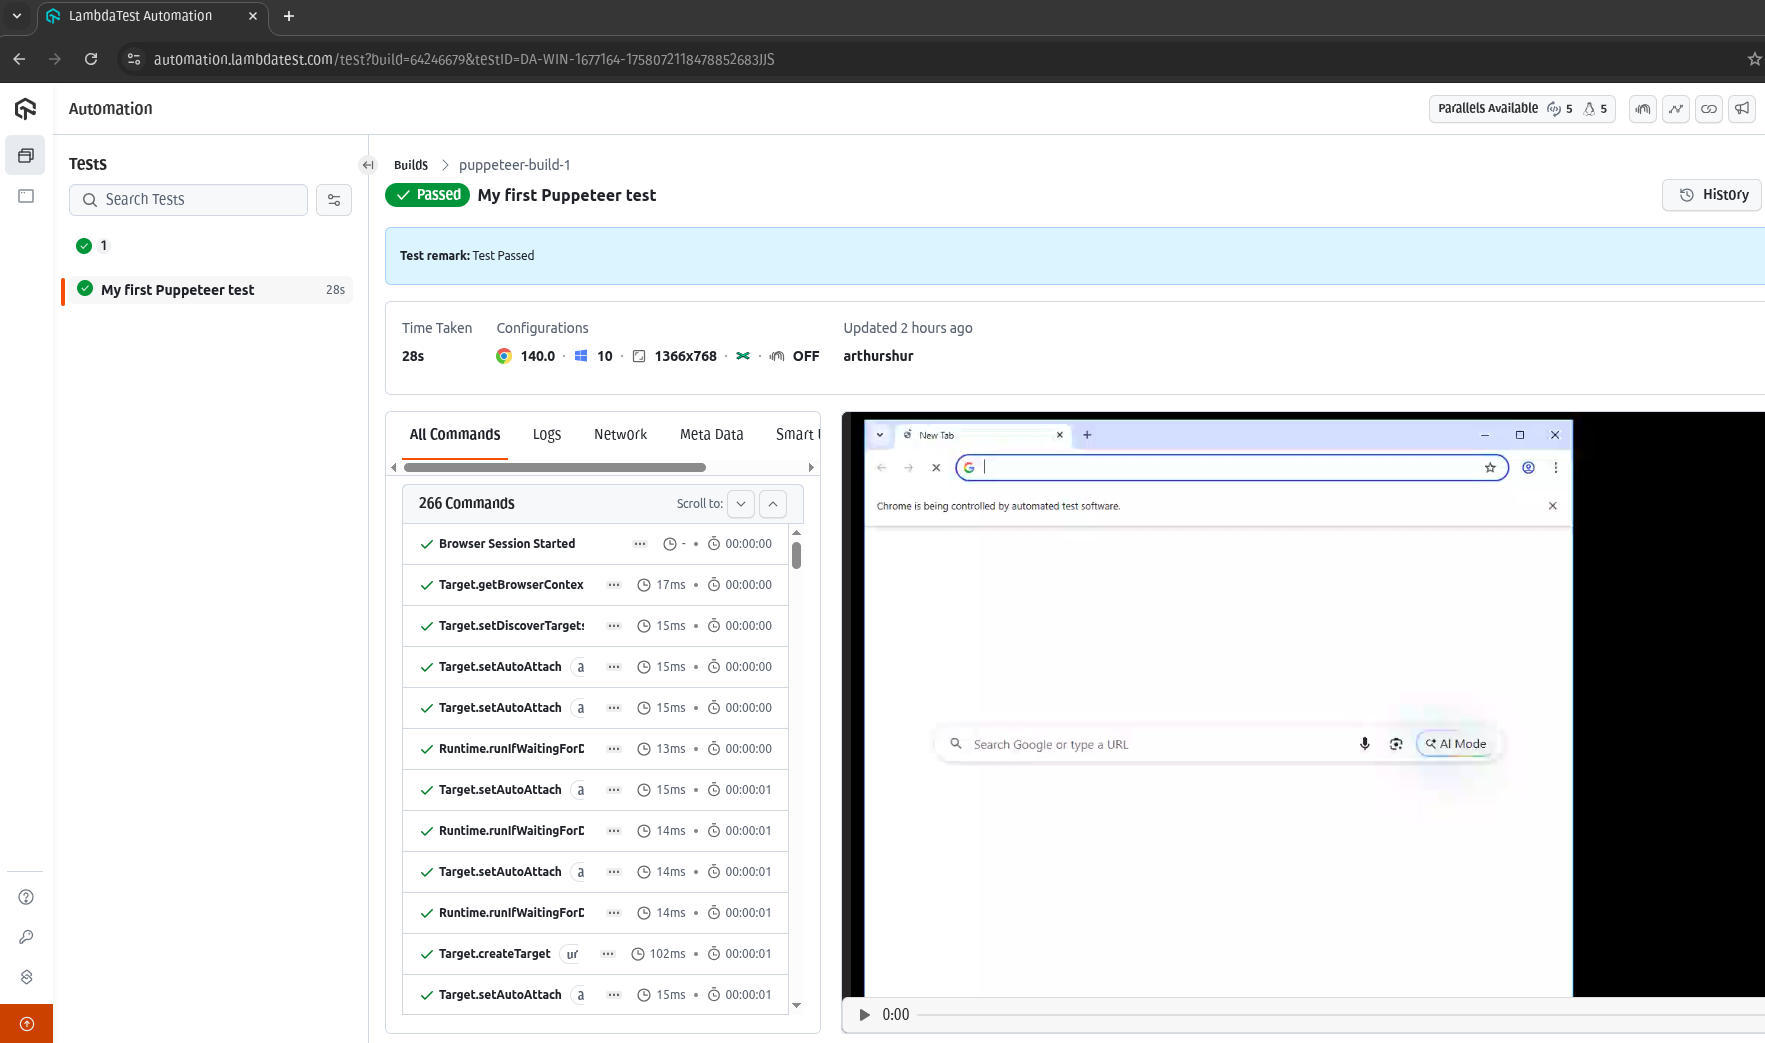
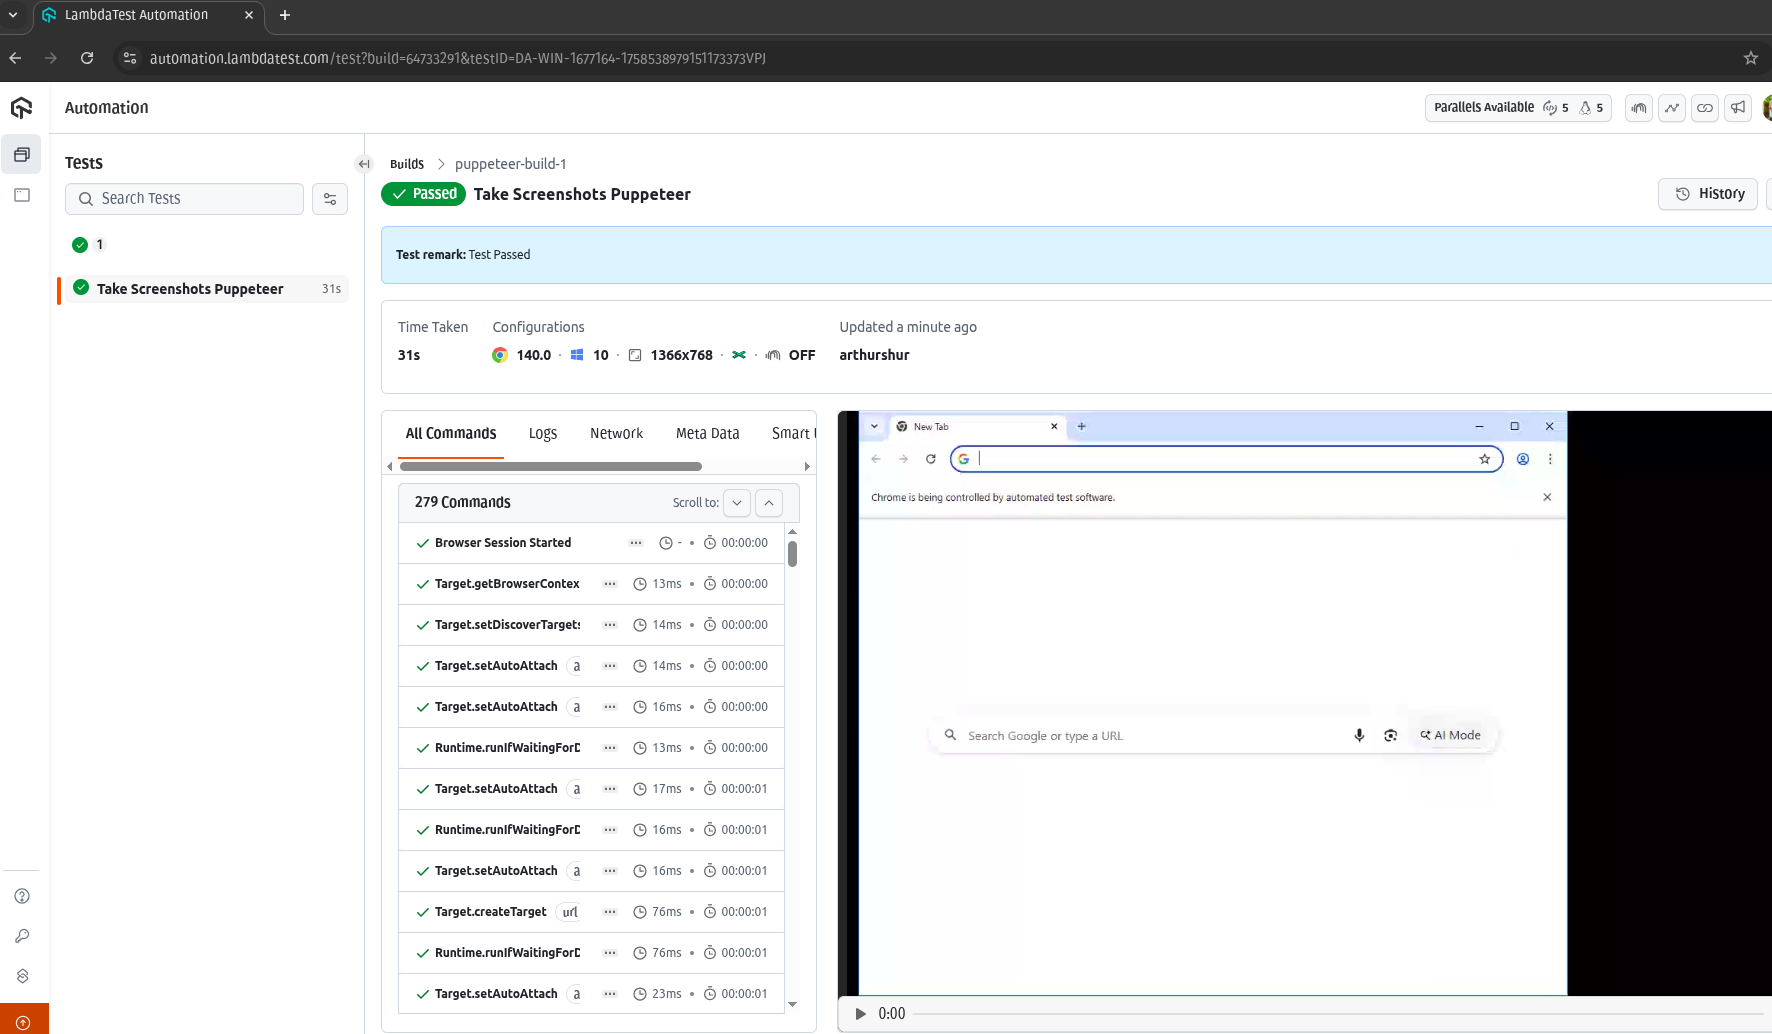
updated README

diff --git a/samples/connector.js b/samples/connector.js
@@ -7,8 +7,8 @@ export async function remoteBrowserPage() {
         'browserVersion': 'latest',
         'LT:Options': {
             'platform': 'Windows 10',
-            'build': 'puppeteer-build-1',
-            'name': 'My first Puppeteer test',
+            'build': 'puppeteer-screenshot-build',
+            'name': 'Take Screenshots Puppeteer',
             'resolution': '1366x768',
             'user': process.env.LT_USERNAME || "Your Username",
             'accessKey': process.env.LT_ACCESS_KEY || "Your Access Key",

diff --git a/README.md b/README.md
@@ -1,2 +1,43 @@
 # Taking Screenshots with Puppeteer
-Learn how to take screenshots using the Node.js automation framework Puppeteer
+Learn how to take screenshots using the Node.js automation framework Puppeteer. 
+### Setup and Installation
+Before you proceed, ensure that you have Node.js (LTS)/latest version and Node Package Manager (npm) installed on your computer.
+
+Step 1: Clone this repository and navigate to the code directory as shown below:
+```
+    git clone https://github.com/inistack/take_screenshots_puppeteer
+```
+```
+    cd take_screenshots_puppeteer
+```
+Step 2: Install the npm dependencies.
+```
+    npm install
+```
+### Authentication
+Step 3: In order to run your Puppeteer on LambdaTest cloud you will need to set your LambdaTest username and access key in the environment variables. Click the Access Key button at the top-right of the Automation Dashboard to access it.
+
+![access_key](./access_key_username.png)
+
+**Windows**
+```
+    set LT_USERNAME="YOUR_LAMBDATEST_USERNAME"
+    set LT_ACCESS_KEY="YOUR_LAMBDATEST_ACCESS_KEY"
+```
+**Linux/macOS**
+```
+    export LT_USERNAME="YOUR_LAMBDATEST_USERNAME"
+    export LT_ACCESS_KEY="YOUR_LAMBDATEST_ACCESS_KEY"
+```
+### Executing The Puppeteer Scripts
+To the Puppeteer scripts in this repository on LambdaTest cloud plaform. 
+Use the following command:
+```
+    node samples/screenshot.js 
+```
+### View your Puppeteer results
+The LambdaTest Automation Dashboard is where you can see the results of your executed Puppeteer scripts on the LambdaTest platform.
+
+The below screenshot of LambdaTest Automation Dashboard shows the Puppeteer build on the left and the build sessions associated with the selected build on the right.
+
+![results](./screenshot_puppeteer.png)
